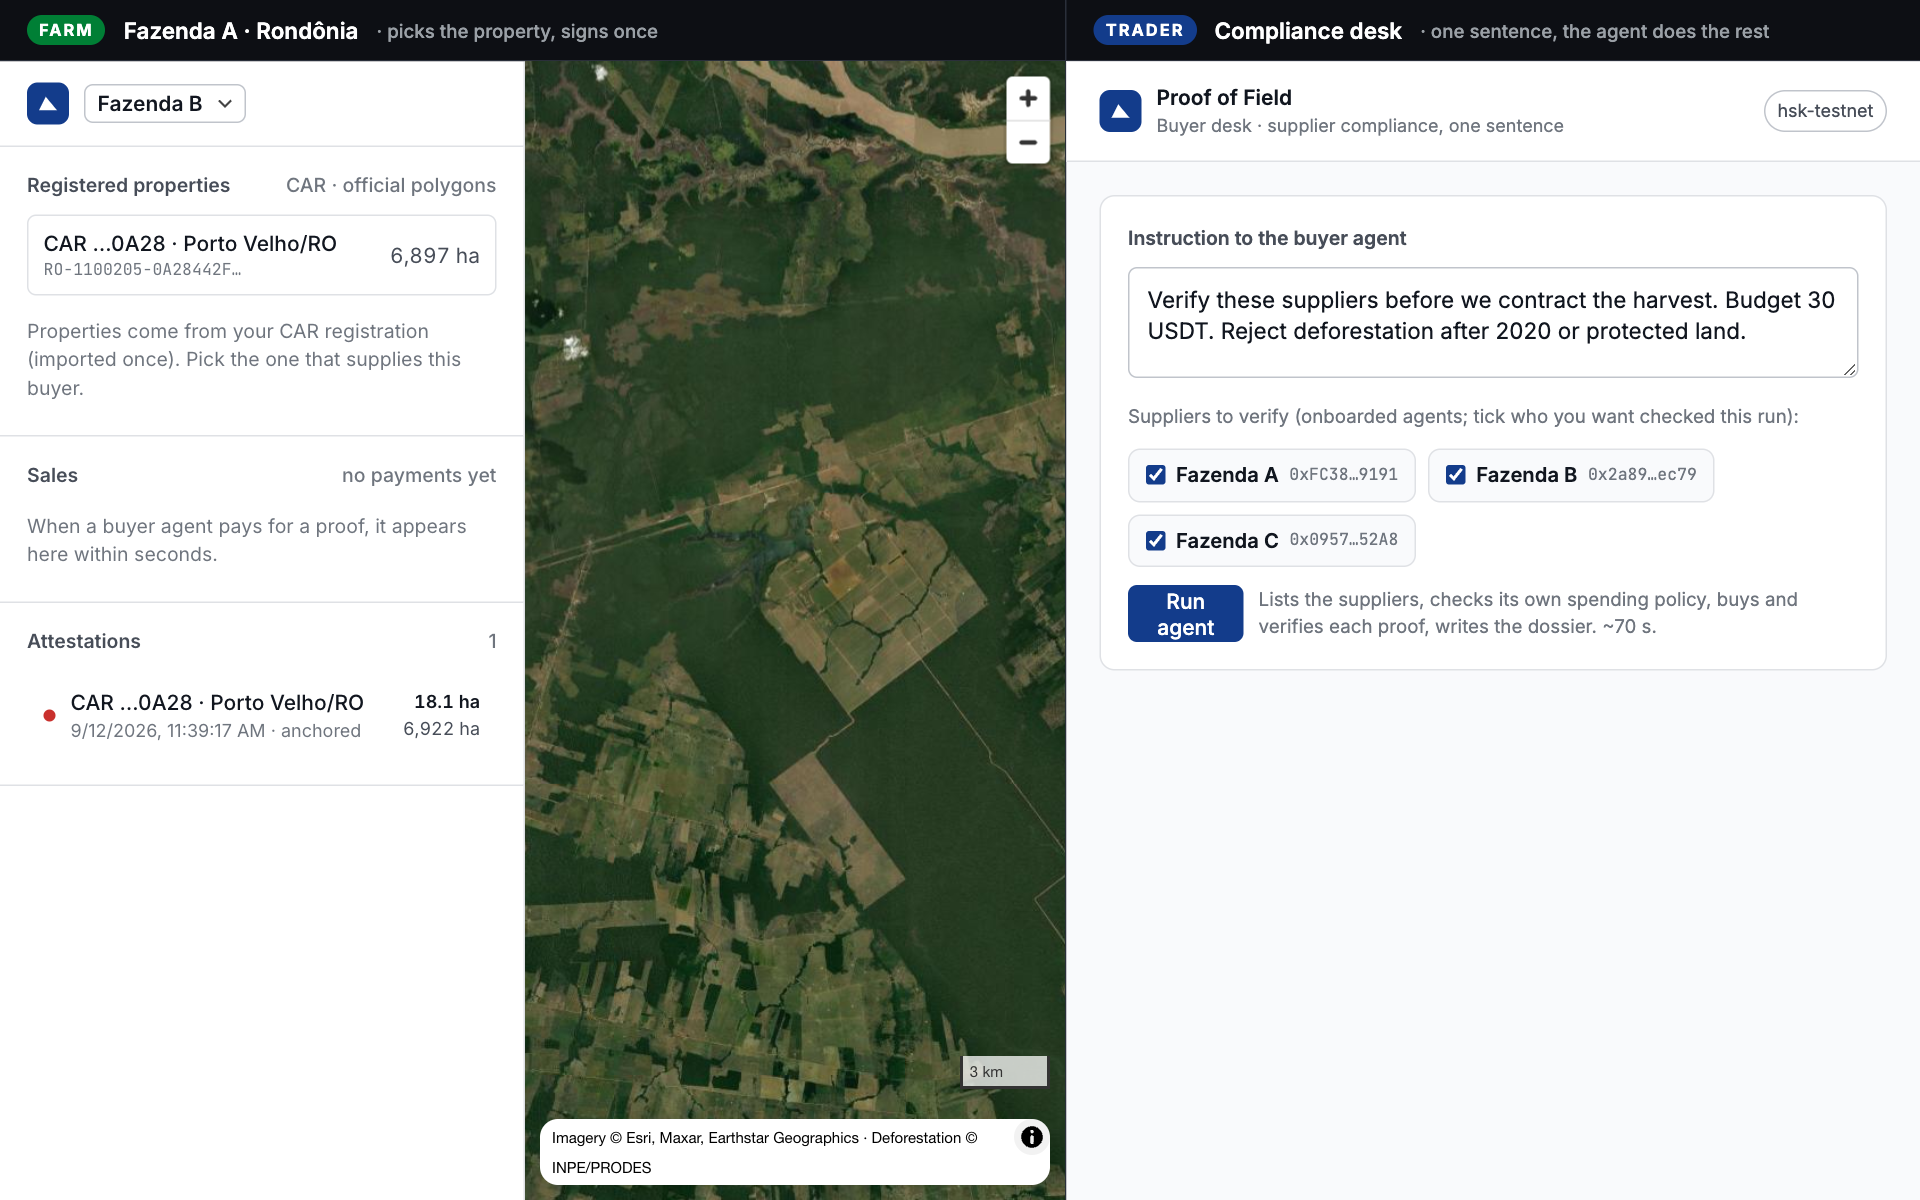
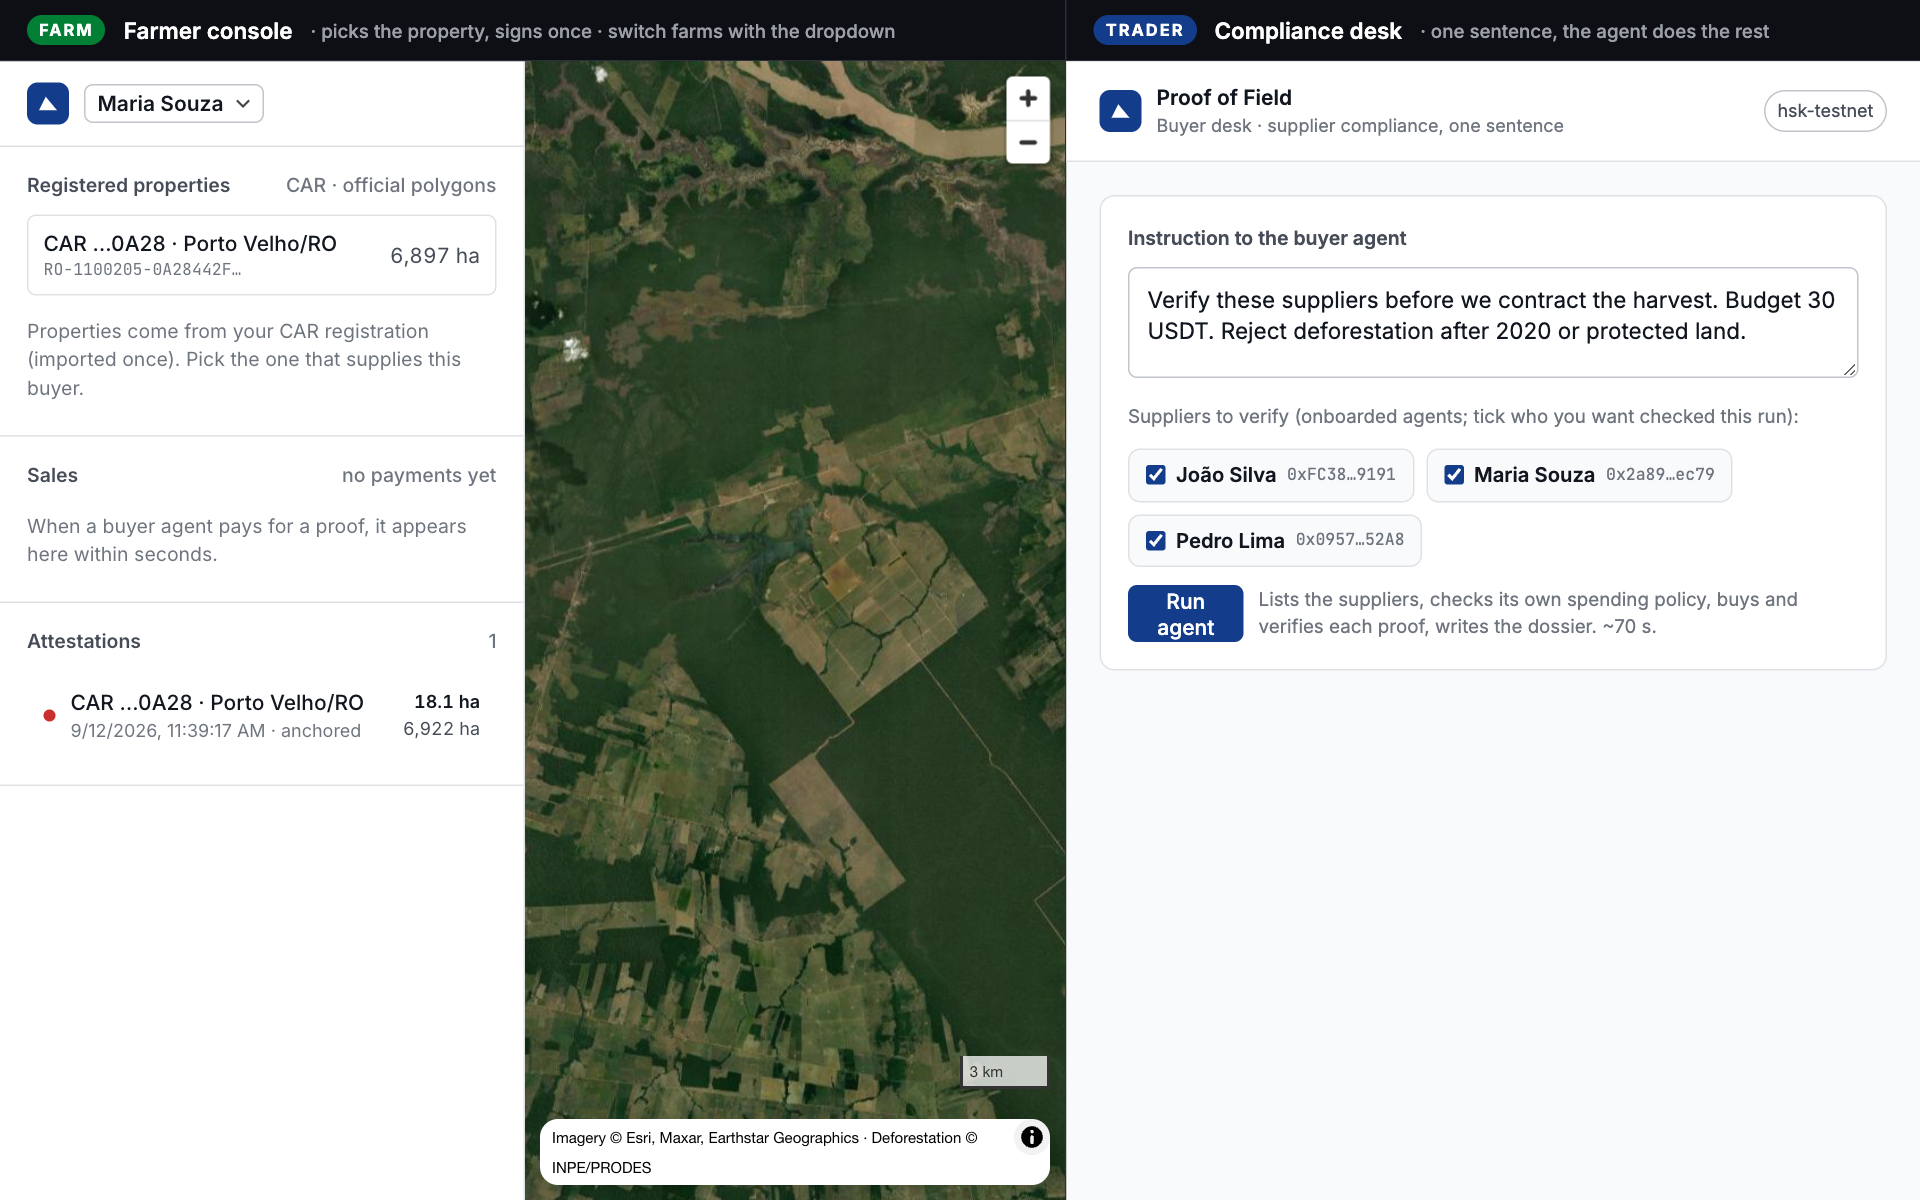
One farmer, three CAR properties; impostor; Maria optional

diff --git a/docs/slides/index.html b/docs/slides/index.html
@@ -185,7 +185,7 @@
     <div>
       <h2 style="font-size:2.5vw">Farm: pick the property, sign once.<br/>Trader: one sentence.</h2>
       <ul>
-        <li>Three sellers, four listings from the public CAR registry: one clean farm, two with post-2020 clearing, and one <b>impostor</b> offering someone else's CAR.</li>
+        <li>One farmer with three registered properties (one clean, two with post-2020 clearing), plus an <b>impostor</b> offering one of his properties under an unknown key. Four listings.</li>
         <li>Before contracting the harvest, the buyer's agent reviews all suppliers: clears the clean one, <b>refuses the other three</b>, and says why. Only onboarded suppliers get paid.</li>
         <li>Every step is a transaction on <b>HSK Chain</b> you can open in the explorer.</li>
       </ul>

diff --git a/apps/buyer-agent/src/desk.ts b/apps/buyer-agent/src/desk.ts
@@ -14,7 +14,7 @@ import { streamSSE } from 'hono/streaming';
 const ROOT = path.resolve(import.meta.dirname, '../../..');
 const PORT = Number(process.env.DESK_PORT || 4030);
 const NETWORK = process.env.NETWORK || 'anvil';
-const DEFAULT_LOT = (process.env.FARMER_URLS || 'http://localhost:4020,http://localhost:4021,http://localhost:4022').split(',');
+const DEFAULT_LOT = (process.env.FARMER_URLS || 'http://localhost:4020,http://localhost:4022').split(',');
 const strip = (s: string) => s.replace(/\x1b\[[0-9;]*m/g, '');
 const REPORTS = path.join(ROOT, 'docs', 'reports');
 

diff --git a/apps/web/src/lib/api.ts b/apps/web/src/lib/api.ts
@@ -12,7 +12,6 @@ const j = async <T,>(r: Response): Promise<T> => { if (!r.ok) throw new Error(`$
 /** Which farmer agent this console talks to. Each farm (or its co-op) runs its own agent with its own key. */
 export const FARMERS: { name: string; url: string }[] = [
   { name: 'João Silva', url: 'http://localhost:4020' },
-  { name: 'Maria Souza', url: 'http://localhost:4021' },
 ];
 let base = (() => { try { return localStorage.getItem('pof.farmer') || FARMERS[0].url; } catch { return FARMERS[0].url; } })();
 export const getFarmerUrl = () => base;

diff --git a/docs/PITCH.md b/docs/PITCH.md
@@ -2,7 +2,7 @@
 
 ## Before walking up (checklist)
 - ONE browser tab, fullscreen: **http://localhost:4030/demo** (left = FARM, right = TRADER). Nothing else on screen.
-- Farm side: dropdown on **João Silva**, no property selected. (Switch to Maria Souza if a judge asks to see another farmer.) Trader side: instruction pre-filled, three suppliers ticked by name (João Silva, Maria Souza, Pedro Lima).
+- Farm side: **João Silva**, three registered properties, none selected. Trader side: instruction pre-filled, two suppliers ticked by name (João Silva, Pedro Lima).
 - Sales ledger empty (STATUS.md has the command). Slides open in another window, fullscreen, on slide 1.
 - Backup only if the page breaks: terminal with `NETWORK=hsk-testnet pnpm buyer -- <proof URL>`.
 
@@ -27,7 +27,7 @@ Say this before the first click: **"Left is a farm. Right is a trading company. 
 **Click 1 · FARM (0:00).** Click the clean property (…9C62). Green verdict. → "The farm picks its registered property. The agent checks it against INPE, indigenous lands, conservation units. Clean."
 Click **Sign once & put the proof up for sale**. Blue banner appears. → "The farm signs once. Only the hash goes to HashKey Chain. The proof is now for sale to any buyer."
 
-**Click 2 · TRADER (0:25).** Point at the three ticked suppliers. → "These are the suppliers the trader already has contracts with; it ticks who to verify. One sentence: verify them before we contract, reject deforestation. That's all a human does." Click **Run agent**.
+**Click 2 · TRADER (0:25).** Point at the two ticked suppliers. → "These are the suppliers the trader already has contracts with; it ticks who to verify. One sentence: verify them before we contract, reject deforestation. That's all a human does." Click **Run agent**.
 While the log streams (~70 s), say only these, pointing at the lines as they appear:
 - "It lists what the suppliers sell, and reads its own spending limit on-chain."
 - "It buys the clean one: 402, pays five USDT, verifies the signature and the registry itself."
@@ -48,7 +48,7 @@ Open BEFORE walking up: (A) farmer console in the browser, (B) terminal with the
 1. **[Console]** "This is the farmer's agent. It runs on his machine. These red areas are PRODES, the official deforestation map from Brazil's space agency, INPE." Click property …4C8E → 26 ha in 2022. "This one does not pass. The system says exactly where and when." Point at the red overlap on the map.
 2. Click …9C62 → Deforestation-free. "This one passes." Click **Sign attestation & anchor on-chain** → hash + tx. "Only the hash went on-chain. The farm's map is still here, on his machine." Copy the proof URL.
 3. **[Terminal B]** Run the LLM buyer agent (command pre-typed, just press Enter):
-   `NETWORK=hsk-testnet pnpm buyer:ai "Buy the proofs for every farm in this lot. Budget 30 USDT. Reject any farm with deforestation after 2020." http://localhost:4020 http://localhost:4021 http://localhost:4022`
+   `NETWORK=hsk-testnet pnpm buyer:ai "Buy the proofs for every farm in this lot. Budget 30 USDT. Reject any farm with deforestation after 2020." http://localhost:4020 http://localhost:4022`
    Narrate while it runs (~70 s, so start it EARLY, right after step 2, and talk over it): "This is the trading company's agent. It got one sentence from the operator. It lists what the farmer sells, checks its own on-chain spending policy, and decides. Watch: it buys the two clean farms over HTTP 402, five USDT each, verifies signature and registry on its own, and refuses the one with 26 hectares. Nobody pressed a button. The farmer was paid the second his data was used." Point at the final summary and the compliance report path.
    **Fallback** if the API is slow or fails: `NETWORK=hsk-testnet pnpm buyer -- <proofUrl>` (deterministic, 5 s, same four steps).
 4. **[Explorer]** Show the attest tx and the payment tx on HSK. Done.

diff --git a/STATUS.md b/STATUS.md
@@ -28,7 +28,7 @@ Precisa de `~/.foundry/bin` no PATH (o script já adiciona).
 - Chave da Anthropic está no .env (fora do git). **Rotacionar depois do evento**, ela passou pelo chat.
 
 ## FEITO 12/09 ~11:00
-- **Lote com vários produtores**: João Silva (porta 4020, imóveis …9C62 e …4C8E) e Maria Souza (porta 4021, chave FARMER2, imóvel …0A28). `./scripts/dev-up.sh` sobe os dois. Buyer LLM recebe a lista de agentes.
+- **Lote com vários produtores**: João Silva (porta 4020) com os 3 imóveis (…9C62, …4C8E, …0A28); Maria Souza opcional (FARMER2_SAMPLES). `./scripts/dev-up.sh` sobe os dois. Buyer LLM recebe a lista de agentes.
 - Atestados carregam o **número do CAR** (polígono oficial); comprador pula "unregistered" por padrão. Fora da cobertura PRODES → recusa (422).
 - `registry_stats`: lê o registro on-chain (4 atestados, 2 produtores). Corrida de recibo entre RPCs corrigida (retry dos dois lados).
 - Deck depersonalizado: sem Nixar/Abunã/nome; slide 2 com as grandes tradings; slide 8 "built to scale".
@@ -36,7 +36,7 @@ Precisa de `~/.foundry/bin` no PATH (o script já adiciona).
 
 - **PRODES ampliado**: RO, MT, GO (Amazônia + Cerrado), 103k polígonos, `./scripts/fetch-prodes.sh` (150 MB, fora do git). Cobertura por estado×bioma; fora → recusa.
 
-- **Impostor na demo**: Pedro Lima (porta 4022, chave FARMER3, sem gás, não cadastrado) vende o CAR do João. Agente marca UNKNOWN + CAR-CONFLICT e recusa. Comando da demo agora tem 3 URLs.
+- **Impostor na demo**: Pedro Lima (porta 4022, chave FARMER3, sem gás, não cadastrado) vende o CAR do João. Agente marca UNKNOWN + CAR-CONFLICT e recusa. Comando da demo tem 2 URLs (4020 João, 4022 Pedro).
 
 - **Áreas protegidas**: terras indígenas (FUNAI) e unidades de conservação (ICMBio/MMA) dos dois biomas entram na checagem (1.101 polígonos). TI e proteção integral reprovam; APA só alerta. Atestado ganhou `protectedHa100` (esquema novo; tudo re-atestado na HSK).
 - **Pitch**: manchete "portable proof"; slide 8 = caminho de adoção (cooperativas → bancos → tradings).
@@ -48,7 +48,7 @@ Precisa de `~/.foundry/bin` no PATH (o script já adiciona).
 ## PUBLICADO no Devfolio às 12:20 — continua editável até 15:00
 - https://devfolio.co/projects/proof-of-field-a49c · time no Devfolio: você + Afonso Fagundes.
 - Slide 4 = "onde vai o trabalho do intermediário" (coletar / checar / confiar / repetir). Slide 5 = "quem fala com quem, não há marketplace".
-- Demo: http://localhost:4030/demo (dois cliques). Lado FARM tem dropdown João Silva / Maria Souza; lado TRADER lista fornecedores por nome com checkbox. Ledger de vendas zerado.
+- Demo: http://localhost:4030/demo (dois cliques). Lado FARM: João Silva com 3 propriedades; lado TRADER lista fornecedores por nome com checkbox. Ledger de vendas zerado.
 
 ## VOCÊ precisa fazer (eu não consigo)
 1. **Devfolio**: criar conta e aplicar em https://eag-global-buildathon.devfolio.co (5 min). Na submissão marcar **Brazil Hackathon** + trilha EAG + **HSK Chain**.
